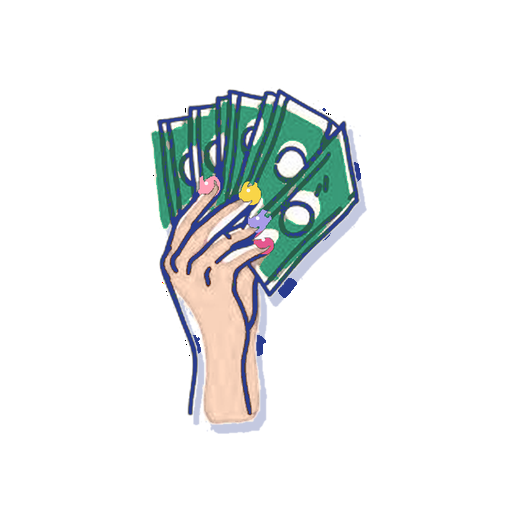
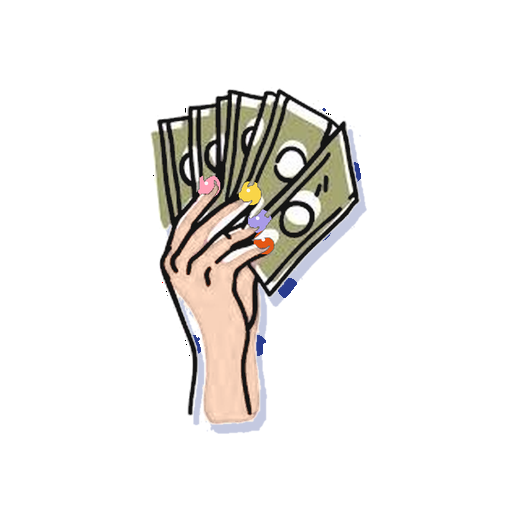
Ikona: maslinaste novčanice i crni obrub; splash loader opet maslinast
Claude-Session: https://claude.ai/code/session_01PtYn5EoLQ2LLbvn7Es8aKa

Changed region(s): [[0.2812, 0.1562, 0.7188, 0.8125], [0.3438, 0.5938, 0.4062, 0.8125]]

diff --git a/index.html b/index.html
@@ -122,8 +122,8 @@ input:focus,select:focus,textarea:focus{outline:none;border-color:var(--th1);bac
 .splash-logo{width:140px;height:140px;border-radius:32px;object-fit:contain;margin-bottom:24px;animation:splashPop .5s cubic-bezier(.175,.885,.32,1.275) both}
 .splash-title{font-size:26px;font-weight:700;color:var(--th-text);letter-spacing:.01em;margin-bottom:8px;text-align:center;animation:splashFade .6s .2s both}
 
-.splash-bar{width:84px;height:5px;background:rgba(42,60,143,.15);border-radius:2px;margin-top:40px;overflow:hidden;animation:splashFade .6s .4s both}
-.splash-bar-fill{height:100%;background:#2a3c8f;border-radius:2px;animation:splashLoad 1.8s .15s ease-out both}
+.splash-bar{width:84px;height:5px;background:rgba(107,128,70,.2);border-radius:2px;margin-top:40px;overflow:hidden;animation:splashFade .6s .4s both}
+.splash-bar-fill{height:100%;background:#6b8046;border-radius:2px;animation:splashLoad 1.8s .15s ease-out both}
 @keyframes splashPop{0%{transform:scale(.7);opacity:0}100%{transform:scale(1);opacity:1}}
 @keyframes splashFade{0%{opacity:0;transform:translateY(8px)}100%{opacity:1;transform:translateY(0)}}
 @keyframes splashLoad{0%{width:0%}100%{width:100%}}

diff --git a/sw.js b/sw.js
@@ -1,5 +1,5 @@
 // Service Worker — Moje Financije
-const CACHE = 'moje-financije-v83';
+const CACHE = 'moje-financije-v84';
 const OFFLINE = ['/', './index.html'];
 
 self.addEventListener('install', e => {
